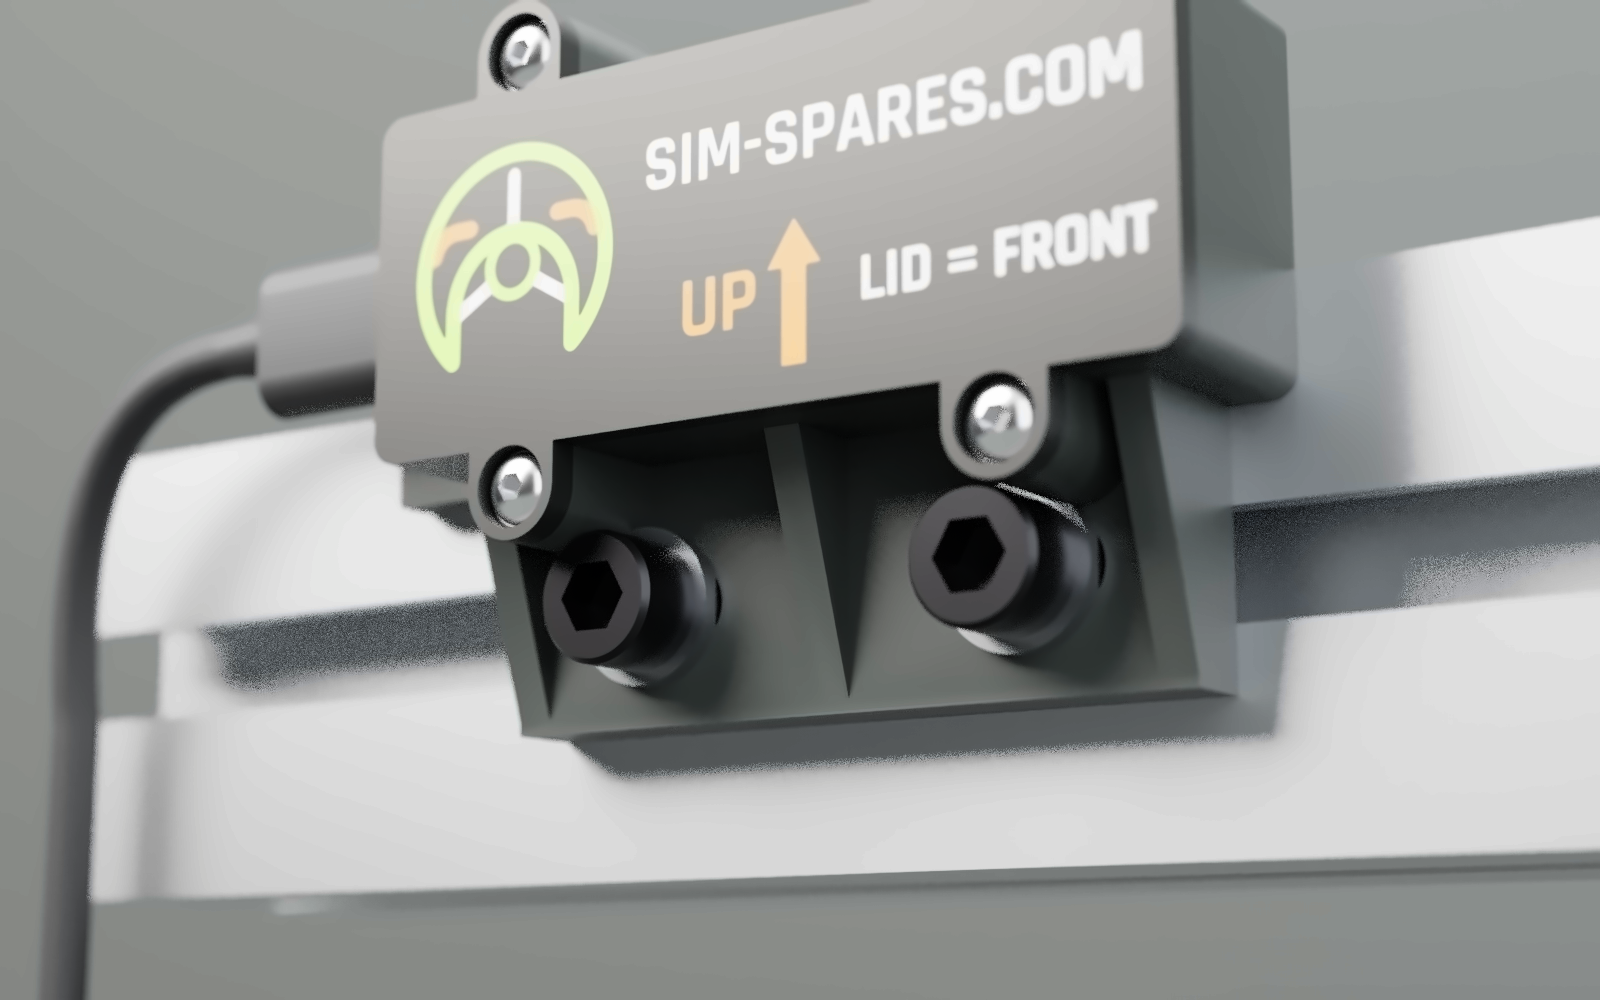
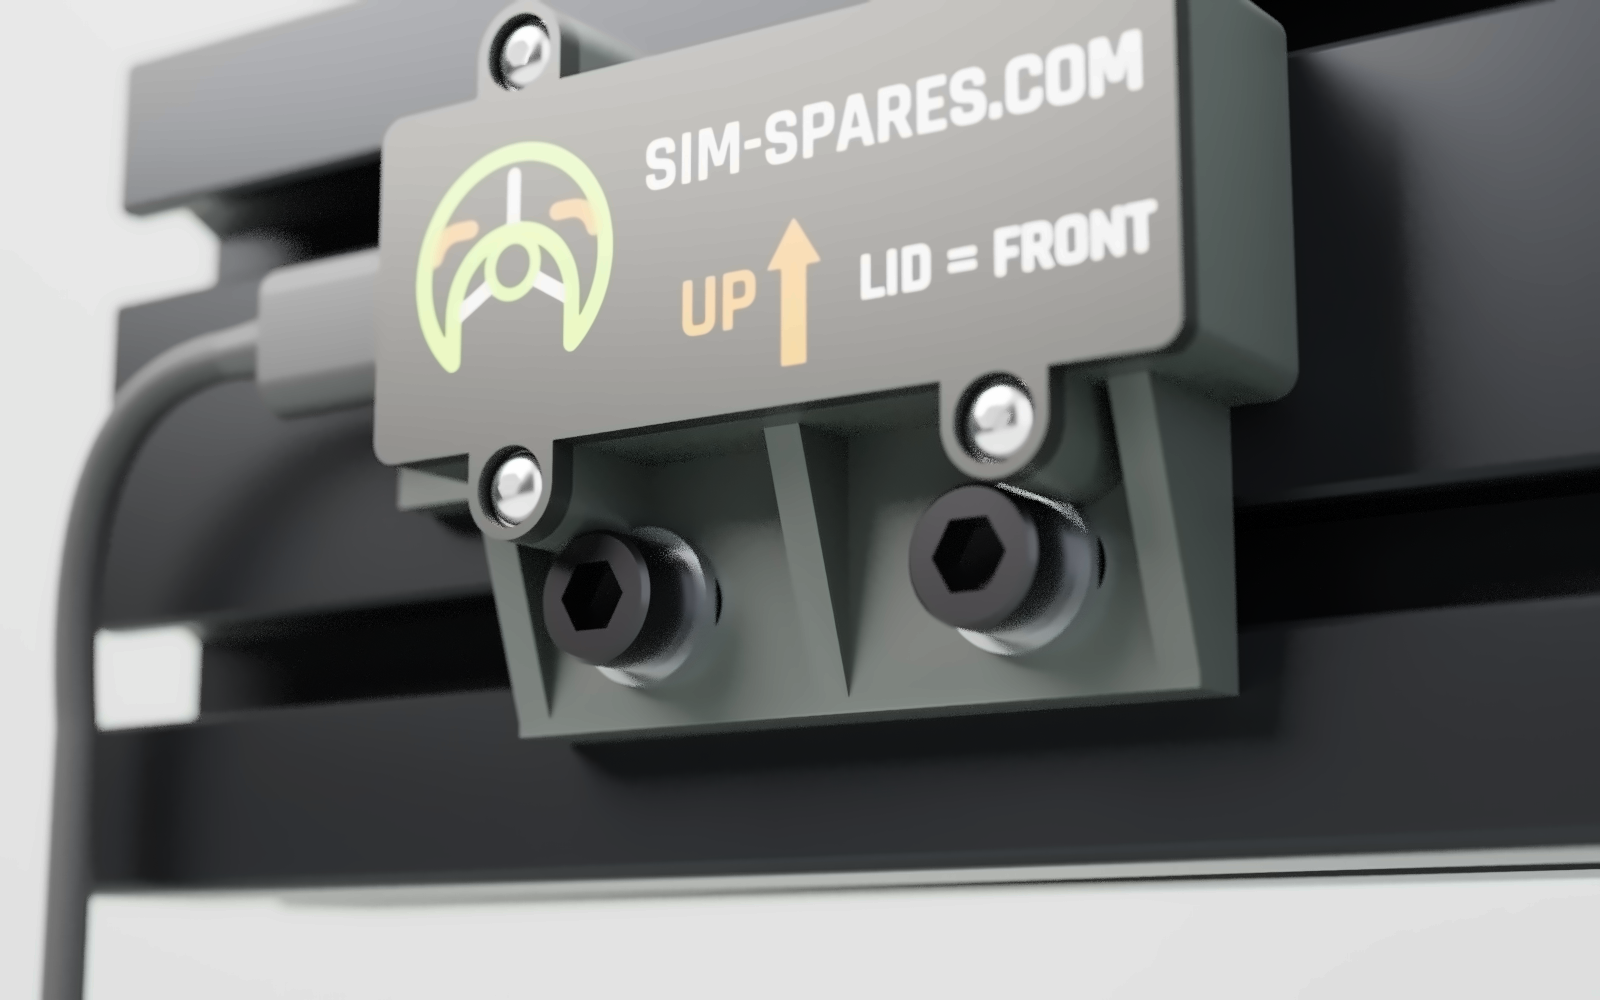
Renders: black anodised 80x40 profile, box in the lower slot
Claude-Session: https://claude.ai/code/session_01NAsESUSuPwmhm1miCkM3LE

diff --git a/enclosure/render/render_blender.py b/enclosure/render/render_blender.py
@@ -36,7 +36,7 @@ def material(name, col, metal=0.0, rough=0.5, layer_lines=False, coat=0.0, aniso
     return m
 
 MATS = {
-    "profile":      material("Aluminium (anodised)", "#C2C6CA", metal=1.0, rough=0.42),
+    "profile":      material("Aluminium (black anodised)", "#1C1D20", metal=0.85, rough=0.36),
     "base":         material("PETG carbon grey", "#2A2E2C", rough=0.42, layer_lines=True),
     "lid":          material("PETG black", "#141615", rough=0.38, layer_lines=True),
     "inlay_green":  material("PETG green", "#A6FF4D", rough=0.38),
@@ -67,7 +67,7 @@ bpy.ops.mesh.primitive_plane_add(size=3.0, location=(0, 0.0, -0.075))
 floor = bpy.context.object; floor.name = "floor"
 bpy.ops.mesh.primitive_plane_add(size=2.0, location=(0, 0.16, 0.9), rotation=(math.radians(90), 0, 0))
 wall = bpy.context.object; wall.name = "wall"
-bg = material("Backdrop", "#303332", rough=0.9)
+bg = material("Backdrop", "#8E9390", rough=0.9)
 floor.data.materials.append(bg); wall.data.materials.append(bg)
 
 def area(name, loc, target, power, size, col=(1, 1, 1)):
@@ -88,7 +88,7 @@ w.node_tree.nodes["Background"].inputs[0].default_value = (0.55, 0.57, 0.6, 1); 
 
 # ---- camera ---------------------------------------------------------------------------------------
 cams = {   # view: (camera location, lens mm, look-at target)
-    "front": ((0.135, -0.255, 0.105), 66, T),
+    "front": ((0.135, -0.255, 0.105), 56, T),
     "close": ((0.105, -0.165, -0.030), 60, (0.0, -0.010, 0.006)),
 }
 loc, lens, T = cams.get(VIEW, cams["front"])

diff --git a/README.md b/README.md
@@ -88,7 +88,7 @@ The box does not have to be square to the rig: use **Auto-align** (below).
 
 ![bolts](docs/enclosure_render_bolts.png)
 
-(Photo renders: `enclosure/render/render.sh` — OpenSCAD scene with DIN 912 M6 × 16 black-oxide bolts, DIN 125 washers,
+(Photo renders on a black-anodised 80×40 slot-8 profile, bolts in its lower slot: `enclosure/render/render.sh` — OpenSCAD scene with DIN 912 M6 × 16 black-oxide bolts, DIN 125 washers,
 slot-8 drop-in T-nuts, ISO 7380 M3 lid screws and a USB-C lead, rendered in Blender Cycles.)
 
 ![mounting](docs/enclosure_mounting.png)
